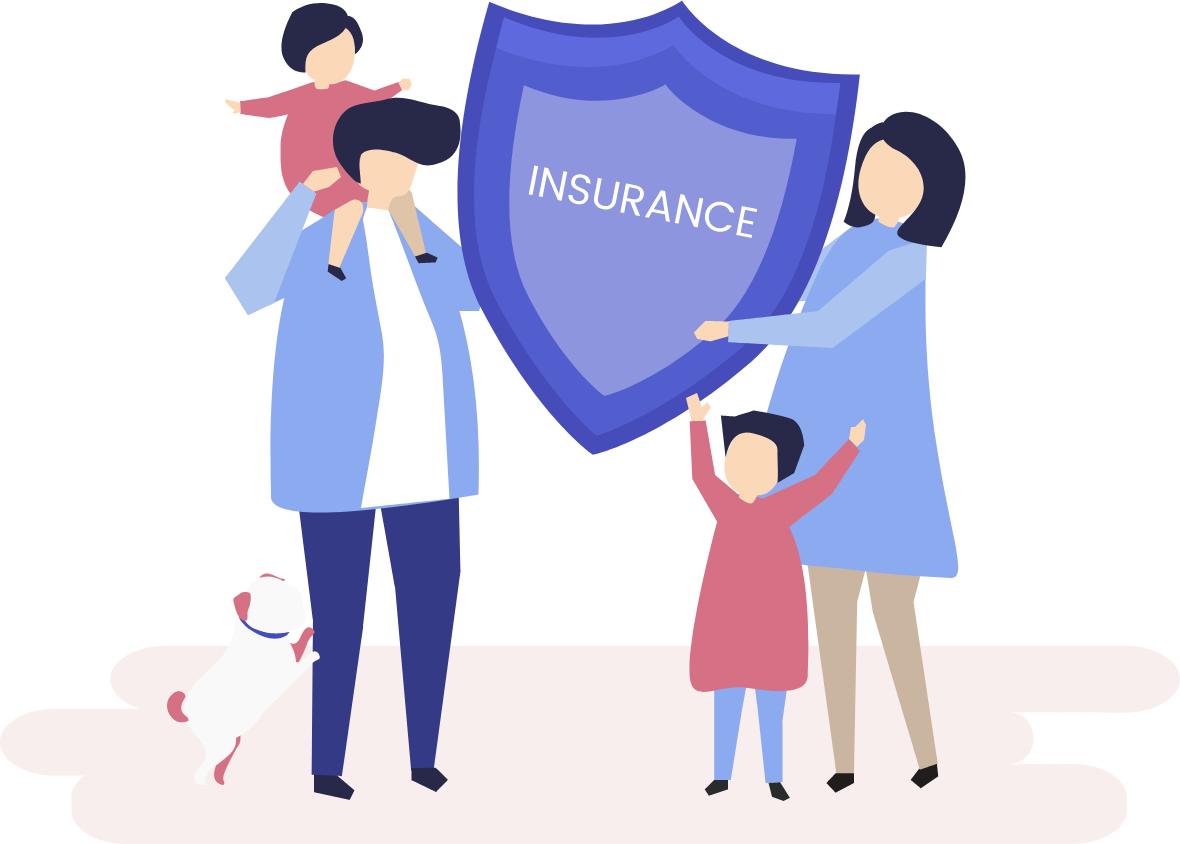
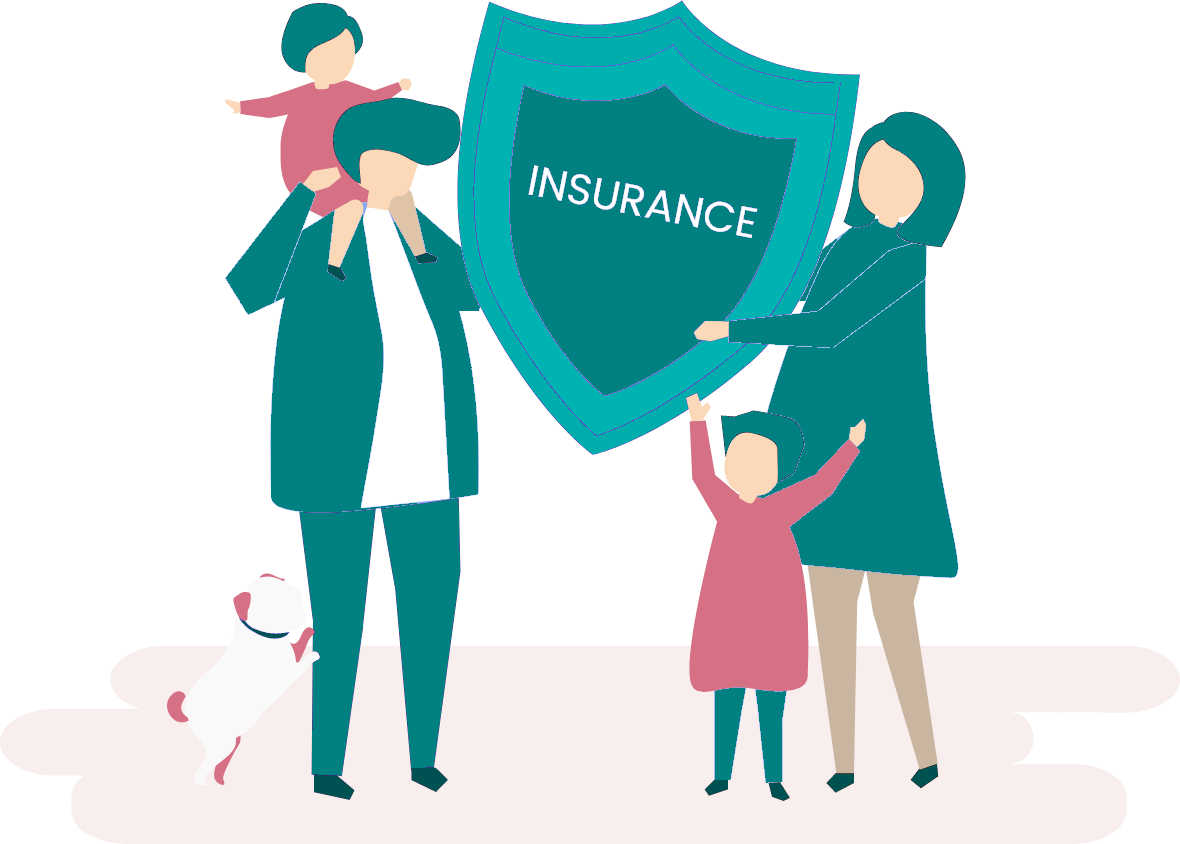
changed everything in pages to teal

diff --git a/app/components/LifeInsurance/LifeInsuranceSidebar.tsx b/app/components/LifeInsurance/LifeInsuranceSidebar.tsx
@@ -3,38 +3,38 @@ import { Tab } from "@headlessui/react";
 const LifeInsuranceSidebar = () => {
 	return (
 		<div className="flex flex-col items-start justify-start p-3 font-bold md:p-6">
-			<Tab className="w-full p-2.5 hover:bg-black hover:text-white sm:w-fit lg:p-4">
+			<Tab className="w-full p-2.5 hover:bg-tealPrimary hover:text-white sm:w-fit lg:p-4">
 				Overview
 			</Tab>
-			<Tab className="flex w-full flex-wrap items-center justify-center p-2.5 hover:bg-black hover:text-white sm:w-fit sm:items-start sm:justify-start lg:p-4">
+			<Tab className="flex w-full flex-wrap items-center justify-center p-2.5 hover:bg-tealPrimary hover:text-white sm:w-fit sm:items-start sm:justify-start lg:p-4">
 				<span>Eligibility &&nbsp;</span>
 				<span>Enrollment</span>
 			</Tab>
-			<Tab className="flex w-full flex-wrap items-center justify-center p-2.5 hover:bg-black hover:text-white sm:w-fit sm:items-start sm:justify-start lg:p-4">
+			<Tab className="flex w-full flex-wrap items-center justify-center p-2.5 hover:bg-tealPrimary hover:text-white sm:w-fit sm:items-start sm:justify-start lg:p-4">
 				<span>Term Life&nbsp;</span>
 				<span>Insurance</span>
 			</Tab>
-			<Tab className="flex w-full flex-wrap items-center justify-center p-2.5 hover:bg-black hover:text-white sm:w-fit sm:items-start sm:justify-start lg:p-4">
+			<Tab className="flex w-full flex-wrap items-center justify-center p-2.5 hover:bg-tealPrimary hover:text-white sm:w-fit sm:items-start sm:justify-start lg:p-4">
 				<span>Permanent&nbsp;</span>
 				<span>Life Insurance</span>
 			</Tab>
-			<Tab className="flex w-full flex-wrap items-center justify-center p-2.5 hover:bg-black hover:text-white sm:w-fit sm:items-start sm:justify-start lg:p-4">
+			<Tab className="flex w-full flex-wrap items-center justify-center p-2.5 hover:bg-tealPrimary hover:text-white sm:w-fit sm:items-start sm:justify-start lg:p-4">
 				<span>Whole Life&nbsp;</span>
 				<span>Insurance</span>
 			</Tab>
-			<Tab className="flex w-full flex-wrap items-center justify-center p-2.5 hover:bg-black hover:text-white sm:w-fit sm:items-start sm:justify-start lg:p-4">
+			<Tab className="flex w-full flex-wrap items-center justify-center p-2.5 hover:bg-tealPrimary hover:text-white sm:w-fit sm:items-start sm:justify-start lg:p-4">
 				<span>Universal Life&nbsp;</span>
 				<span>Insurance</span>
 			</Tab>
-			<Tab className="flex w-full flex-col items-center p-2.5 hover:bg-black hover:text-white sm:w-fit sm:items-start sm:justify-start lg:p-4">
+			<Tab className="flex w-full flex-col items-center p-2.5 hover:bg-tealPrimary hover:text-white sm:w-fit sm:items-start sm:justify-start lg:p-4">
 				<span>Variable Life&nbsp;</span>
 				<span>Insurance</span>
 			</Tab>
-			<Tab className="flex w-full flex-col items-center p-2.5 hover:bg-black hover:text-white sm:w-fit sm:items-start sm:justify-start lg:p-4">
+			<Tab className="flex w-full flex-col items-center p-2.5 hover:bg-tealPrimary hover:text-white sm:w-fit sm:items-start sm:justify-start lg:p-4">
 				<span>Indexed Life&nbsp;</span>
 				<span>Insurance</span>
 			</Tab>
-			<Tab className="w-full p-2.5 hover:bg-black hover:text-white sm:w-fit lg:p-4">
+			<Tab className="w-full p-2.5 hover:bg-tealPrimary hover:text-white sm:w-fit lg:p-4">
 				How To
 			</Tab>
 		</div>

diff --git a/app/components/Obamacare/ObamacareSidebar.tsx b/app/components/Obamacare/ObamacareSidebar.tsx
@@ -3,32 +3,32 @@ import { Tab } from "@headlessui/react";
 const MedicareSidebar = () => {
 	return (
 		<div className="flex flex-col items-start justify-start p-3 font-bold md:p-6">
-			<Tab className="w-full p-2.5 hover:bg-black hover:text-white sm:w-fit lg:p-4">
+			<Tab className="w-full p-2.5 hover:bg-tealPrimary hover:text-white sm:w-fit lg:p-4">
 				Overview
 			</Tab>
-			<Tab className="flex w-full flex-wrap items-center justify-center p-2.5 hover:bg-black hover:text-white sm:w-fit sm:items-start sm:justify-start lg:p-4">
+			<Tab className="flex w-full flex-wrap items-center justify-center p-2.5 hover:bg-tealPrimary hover:text-white sm:w-fit sm:items-start sm:justify-start lg:p-4">
 				<span>Eligibility &&nbsp;</span>
 				<span>Enrollment</span>
 			</Tab>
-			<Tab className="flex w-full flex-wrap items-center justify-center p-2.5 hover:bg-black hover:text-white sm:w-fit sm:items-start sm:justify-start lg:p-4">
+			<Tab className="flex w-full flex-wrap items-center justify-center p-2.5 hover:bg-tealPrimary hover:text-white sm:w-fit sm:items-start sm:justify-start lg:p-4">
 				<span>Types of Plans</span>
 			</Tab>
-			<Tab className="flex w-full flex-wrap items-center justify-center p-2.5 hover:bg-black hover:text-white sm:w-fit sm:items-start sm:justify-start lg:p-4">
+			<Tab className="flex w-full flex-wrap items-center justify-center p-2.5 hover:bg-tealPrimary hover:text-white sm:w-fit sm:items-start sm:justify-start lg:p-4">
 				<span>Premium Tax</span>
 				<span>Credits</span>
 			</Tab>
-			<Tab className="flex w-full flex-wrap items-center justify-center p-2.5 hover:bg-black hover:text-white sm:w-fit sm:items-start sm:justify-start lg:p-4">
+			<Tab className="flex w-full flex-wrap items-center justify-center p-2.5 hover:bg-tealPrimary hover:text-white sm:w-fit sm:items-start sm:justify-start lg:p-4">
 				<span>Cost Sharing</span>
 				<span>Reduction Subsidies</span>
 			</Tab>
-			<Tab className="flex w-full flex-col items-center p-2.5 hover:bg-black hover:text-white sm:w-fit sm:items-start sm:justify-start lg:p-4">
+			<Tab className="flex w-full flex-col items-center p-2.5 hover:bg-tealPrimary hover:text-white sm:w-fit sm:items-start sm:justify-start lg:p-4">
 				<span>Medicaid &&nbsp;</span>
 				<span>CHIP</span>
 			</Tab>
-			<Tab className="w-full p-2.5 hover:bg-black hover:text-white sm:w-fit lg:p-4">
+			<Tab className="w-full p-2.5 hover:bg-tealPrimary hover:text-white sm:w-fit lg:p-4">
 				Obamacare Guide
 			</Tab>
-			<Tab className="w-full p-2.5 hover:bg-black hover:text-white sm:w-fit lg:p-4">
+			<Tab className="w-full p-2.5 hover:bg-tealPrimary hover:text-white sm:w-fit lg:p-4">
 				Additional Benefits
 			</Tab>
 		</div>

diff --git a/app/components/Medicare/MedicareSidebar.tsx b/app/components/Medicare/MedicareSidebar.tsx
@@ -3,31 +3,31 @@ import { Tab } from "@headlessui/react";
 const MedicareSidebar = () => {
 	return (
 		<div className="flex flex-col items-start justify-start p-3 font-bold md:p-6">
-			<Tab className="w-full p-2.5 hover:bg-black hover:text-white sm:w-fit lg:p-4">
+			<Tab className="w-full p-2.5 hover:bg-tealPrimary hover:text-white sm:w-fit lg:p-4">
 				Overview
 			</Tab>
-			<Tab className="flex w-full flex-wrap items-center justify-center p-2.5 hover:bg-black hover:text-white sm:w-fit sm:items-start sm:justify-start lg:p-4">
+			<Tab className="flex w-full flex-wrap items-center justify-center p-2.5 hover:bg-tealPrimary hover:text-white sm:w-fit sm:items-start sm:justify-start lg:p-4">
 				<span>Eligibility &&nbsp;</span>
 				<span>Enrollment</span>
 			</Tab>
-			<Tab className="w-full p-2.5 hover:bg-black hover:text-white sm:w-fit lg:p-4">
+			<Tab className="w-full p-2.5 hover:bg-tealPrimary hover:text-white sm:w-fit lg:p-4">
 				Original Medicare
 			</Tab>
-			<Tab className="w-full p-2.5 hover:bg-black hover:text-white sm:w-fit lg:p-4">
+			<Tab className="w-full p-2.5 hover:bg-tealPrimary hover:text-white sm:w-fit lg:p-4">
 				Medicare Advantage
 			</Tab>
-			<Tab className="flex w-full flex-wrap items-center justify-center p-2.5 hover:bg-black hover:text-white sm:w-fit sm:items-start sm:justify-start lg:p-4">
+			<Tab className="flex w-full flex-wrap items-center justify-center p-2.5 hover:bg-tealPrimary hover:text-white sm:w-fit sm:items-start sm:justify-start lg:p-4">
 				<span>Medicare&nbsp;</span>
 				<span>Supplement</span>
 			</Tab>
-			<Tab className="flex w-full flex-col items-center p-2.5 hover:bg-black hover:text-white sm:w-fit sm:items-start sm:justify-start lg:p-4">
+			<Tab className="flex w-full flex-col items-center p-2.5 hover:bg-tealPrimary hover:text-white sm:w-fit sm:items-start sm:justify-start lg:p-4">
 				<span>Prescription Drug</span>
 				<span>Coverage</span>
 			</Tab>
-			<Tab className="w-full p-2.5 hover:bg-black hover:text-white sm:w-fit lg:p-4">
+			<Tab className="w-full p-2.5 hover:bg-tealPrimary hover:text-white sm:w-fit lg:p-4">
 				Costs & Coverage
 			</Tab>
-			<Tab className="w-full p-2.5 hover:bg-black hover:text-white sm:w-fit lg:p-4">
+			<Tab className="w-full p-2.5 hover:bg-tealPrimary hover:text-white sm:w-fit lg:p-4">
 				Additional Benefits
 			</Tab>
 		</div>

diff --git a/app/components/FuneralAssistance/FuneralSidebar.tsx b/app/components/FuneralAssistance/FuneralSidebar.tsx
@@ -3,14 +3,14 @@ import { Tab } from "@headlessui/react";
 const FuneralSidebar = () => {
 	return (
 		<div className="flex flex-col items-start justify-start p-3 font-bold md:p-6">
-			<Tab className="w-full p-2.5 hover:bg-black hover:text-white sm:w-fit lg:p-4">
+			<Tab className="w-full p-2.5 hover:bg-tealPrimary hover:text-white sm:w-fit lg:p-4">
 				Overview
 			</Tab>
-			<Tab className="flex w-full flex-wrap items-center justify-center p-2.5 hover:bg-black hover:text-white sm:w-fit sm:items-start sm:justify-start lg:p-4">
+			<Tab className="flex w-full flex-wrap items-center justify-center p-2.5 hover:bg-tealPrimary hover:text-white sm:w-fit sm:items-start sm:justify-start lg:p-4">
 				<span>Eligibility &&nbsp;</span>
 				<span>Enrollment</span>
 			</Tab>
-			<Tab className="flex w-full flex-wrap items-center justify-center p-2.5 hover:bg-black hover:text-white sm:w-fit sm:items-start sm:justify-start lg:p-4">
+			<Tab className="flex w-full flex-wrap items-center justify-center p-2.5 hover:bg-tealPrimary hover:text-white sm:w-fit sm:items-start sm:justify-start lg:p-4">
 				<span>Benefits</span>
 			</Tab>
 		</div>

diff --git a/app/components/FuneralAssistance/FuneralImage.tsx b/app/components/FuneralAssistance/FuneralImage.tsx
@@ -2,14 +2,14 @@ import Image from "next/image";
 
 const FuneralImage = () => {
 	return (
-		<div className="relative h-40 w-full overflow-hidden bg-black bg-opacity-50 sm:h-64">
+		<div className="relative h-40 w-full overflow-hidden bg-teal-900 bg-opacity-50 sm:h-64">
 			<div className="absolute bottom-4 left-4 flex flex-col text-4xl font-bold text-white sm:bottom-8 sm:left-8 sm:text-6xl md:text-8xl">
 				<span>FUNERAL</span>
 				<span>ASSISTANCE</span>
 			</div>
 			<Image
 				alt="Funeral Assistance Image"
-				className="relative -left-20 -top-24 w-full min-w-[1200px] mix-blend-soft-light brightness-50"
+				className="relative -left-20 -top-24 w-full min-w-[1200px] mix-blend-screen brightness-50"
 				src="/familyreal.jpg"
 				width={600}
 				height={600}

diff --git a/app/components/LifeInsurance/LifeInsuranceImage.tsx b/app/components/LifeInsurance/LifeInsuranceImage.tsx
@@ -2,14 +2,14 @@ import Image from "next/image";
 
 const LifeInsuranceImage = () => {
 	return (
-		<div className="relative h-40 w-full overflow-hidden bg-black bg-opacity-50 sm:h-64">
+		<div className="relative h-40 w-full overflow-hidden bg-teal-900 bg-opacity-50 sm:h-64">
 			<div className="absolute bottom-4 left-4 flex flex-col text-4xl font-bold text-white sm:bottom-8 sm:left-8 sm:text-6xl md:text-8xl">
 				<span>LIFE</span>
 				<span>INSURANCE</span>
 			</div>
 			<Image
 				alt="Life Insurance Image"
-				className="relative -left-20 -top-24 w-full min-w-[1200px] mix-blend-soft-light brightness-50"
+				className="relative -left-20 -top-24 w-full min-w-[1200px] mix-blend-screen brightness-50"
 				src="/familyreal.jpg"
 				width={600}
 				height={600}

diff --git a/app/components/LifeInsurance/LifeInsuranceContent.tsx b/app/components/LifeInsurance/LifeInsuranceContent.tsx
@@ -19,11 +19,11 @@ const LifeInsuranceContent = () => {
 				<Tab.List className="sm:col-span-4 lg:col-span-3">
 					<LifeInsuranceSidebar />
 					<div className="flex px-6 sm:hidden">
-						<span className="flex h-full w-full border-b-2 border-blue-800 border-opacity-50" />
+						<span className="flex h-full w-full border-b-2 border-tealPrimary border-opacity-50" />
 					</div>
 				</Tab.List>
 				<Tab.Panels className="flex h-full w-full p-4 sm:col-span-8 md:p-8 lg:col-span-9">
-					<span className="mr-8 hidden border border-blue-800 border-opacity-50 sm:flex" />
+					<span className="mr-8 hidden border border-tealPrimary border-opacity-50 sm:flex" />
 					<LifeInsuranceOverview />
 					<LifeInsuranceEligibility />
 					<LifeInsuranceTerm />

diff --git a/app/components/Obamacare/ObamacareContent.tsx b/app/components/Obamacare/ObamacareContent.tsx
@@ -18,11 +18,11 @@ const ObamacareContent = () => {
 				<Tab.List className="sm:col-span-4 lg:col-span-3">
 					<ObamacareSidebar />
 					<div className="flex px-6 sm:hidden">
-						<span className="flex h-full w-full border-b-2 border-blue-800 border-opacity-50" />
+						<span className="flex h-full w-full border-b-2 border-tealPrimary border-opacity-50" />
 					</div>
 				</Tab.List>
 				<Tab.Panels className="flex h-full w-full p-4 sm:col-span-8 md:p-8 lg:col-span-9">
-					<span className="mr-8 hidden border border-blue-800 border-opacity-50 sm:flex" />
+					<span className="mr-8 hidden border border-tealPrimary border-opacity-50 sm:flex" />
 					<ObamacareOverview />
 					<ObamacareEligibility />
 					<ObamacareTypes />

diff --git a/app/components/Medicare/MedicareContent.tsx b/app/components/Medicare/MedicareContent.tsx
@@ -18,11 +18,11 @@ const MedicareContent = () => {
 				<Tab.List className="sm:col-span-4 lg:col-span-3">
 					<MedicareSidebar />
 					<div className="flex px-6 sm:hidden">
-						<span className="flex h-full w-full border-b-2 border-purple border-opacity-50" />
+						<span className="flex h-full w-full border-b-2 border-tealPrimary border-opacity-50" />
 					</div>
 				</Tab.List>
 				<Tab.Panels className="flex h-full w-full p-4 sm:col-span-8 md:p-8 lg:col-span-9">
-					<span className="mr-8 hidden border border-blue-800 border-opacity-50 sm:flex" />
+					<span className="mr-8 hidden border border-tealPrimary border-opacity-50 sm:flex" />
 					<MedicareOverview />
 					<MedicareEligibility />
 					<MedicareOriginal />

diff --git a/app/components/FuneralAssistance/FuneralContent.tsx b/app/components/FuneralAssistance/FuneralContent.tsx
@@ -13,11 +13,11 @@ const FuneralContent = () => {
 				<Tab.List className="sm:col-span-4 lg:col-span-3">
 					<FuneralSidebar />
 					<div className="flex px-6 sm:hidden">
-						<span className="flex h-full w-full border-b-2 border-blue-800 border-opacity-50" />
+						<span className="flex h-full w-full border-b-2 border-tealPrimary border-opacity-50" />
 					</div>
 				</Tab.List>
 				<Tab.Panels className="flex h-full w-full p-4 sm:col-span-8 md:p-8 lg:col-span-9">
-					<span className="mr-8 hidden border border-blue-800 border-opacity-50 sm:flex" />
+					<span className="mr-8 hidden border border-tealPrimary border-opacity-50 sm:flex" />
 					<FuneralOverview />
 					<FuneralEligibility />
 					<FuneralBenefits />

diff --git a/app/components/Obamacare/ObamacareImage.tsx b/app/components/Obamacare/ObamacareImage.tsx
@@ -2,13 +2,13 @@ import Image from "next/image";
 
 const ObamacareImage = () => {
 	return (
-		<div className="relative h-40 w-full overflow-hidden bg-black bg-opacity-50 sm:h-64">
+		<div className="relative h-40 w-full overflow-hidden bg-teal-900 bg-opacity-50 sm:h-64">
 			<span className="absolute bottom-4 left-4 text-4xl font-bold text-white sm:bottom-8 sm:left-8 sm:text-6xl md:text-8xl">
 				OBAMACARE
 			</span>
 			<Image
 				alt="Obamacare Image"
-				className="relative -left-20 -top-24 w-full min-w-[1200px] mix-blend-soft-light brightness-50"
+				className="relative -left-20 -top-24 w-full min-w-[1200px] mix-blend-screen brightness-50"
 				src="/familyreal.jpg"
 				width={600}
 				height={600}

diff --git a/app/components/Medicare/MedicareImage.tsx b/app/components/Medicare/MedicareImage.tsx
@@ -2,13 +2,13 @@ import Image from "next/image";
 
 const MedicareImage = () => {
 	return (
-		<div className="relative h-40 w-full overflow-hidden bg-black bg-opacity-50 sm:h-64">
+		<div className="relative h-40 w-full overflow-hidden bg-teal-900 bg-opacity-50 sm:h-64">
 			<span className="absolute bottom-4 left-4 text-4xl font-bold text-white sm:bottom-8 sm:left-8 sm:text-6xl md:text-8xl">
 				MEDICARE
 			</span>
 			<Image
 				alt="Medicare Image"
-				className="relative -left-20 -top-24 w-full min-w-[1200px] mix-blend-soft-light brightness-50"
+				className="relative -left-20 -top-24 w-full min-w-[1200px] mix-blend-screen brightness-50"
 				src="/familyreal.jpg"
 				width={600}
 				height={600}
